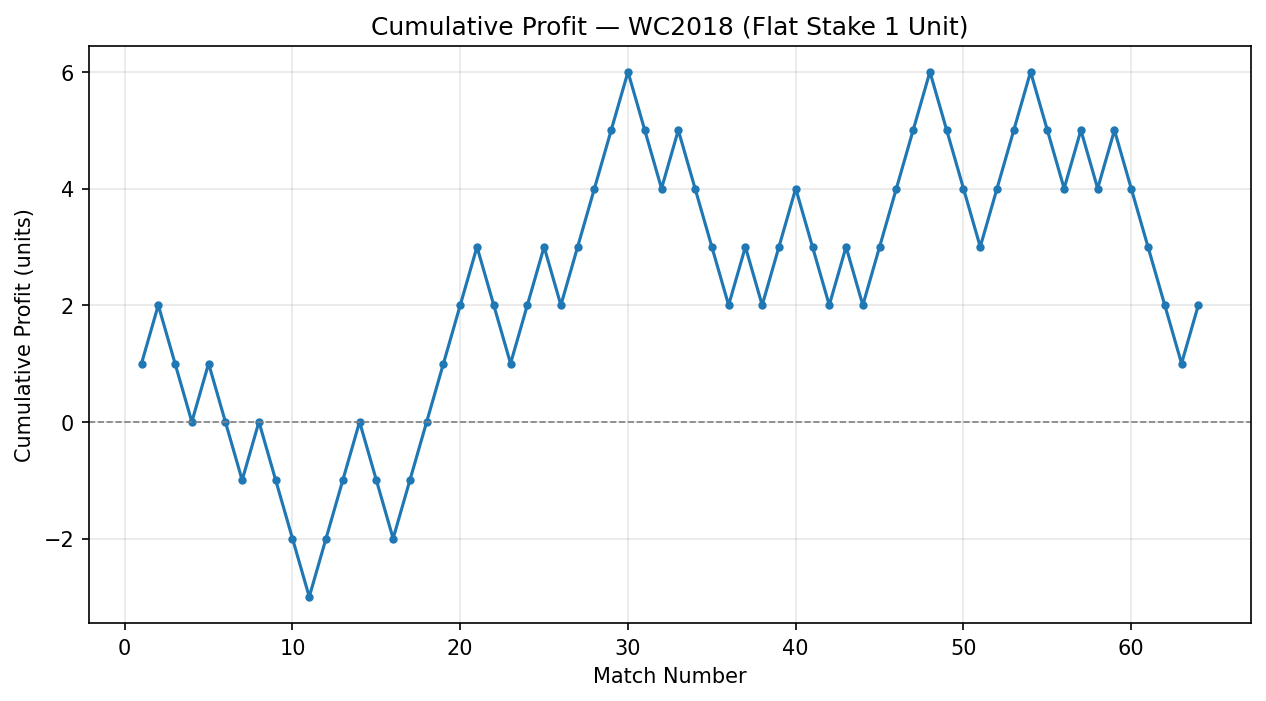
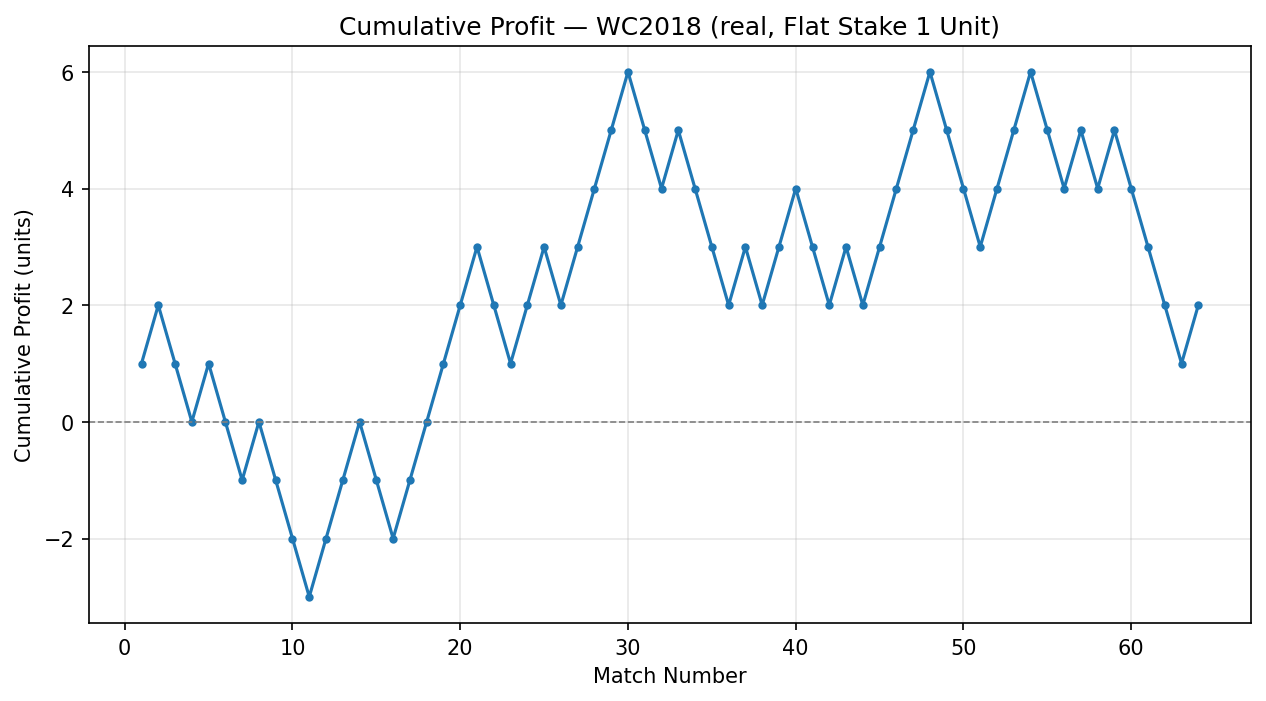
fix: resolve 3 runtime bugs in odds pipeline and dashboard charts
- odds.py import_historical_odds: add comment='#' to pd.read_csv so
  template comment rows are not parsed as data; return empty DataFrame
  with ODDS_COLUMNS schema when file has no data rows
- run_backtest.py _run_mode: pass odds_df directly to compute_edge
  instead of bare pd.DataFrame() — empty-but-schema-correct DataFrame
  prevents KeyError: 'match_date' when stub_2.0 mode passes empty odds
- performance_charts.py: replace invalid width='stretch' with
  use_container_width=True in both st.plotly_chart calls and st.image
  (same fix applied to prediction_card.py in Subphase 7.6)
- Re-ran scripts/run_backtest.py to regenerate backtest CSVs with new
  odds_matched/odds_source columns and updated final_backtest_metrics.json
- 33/33 tests pass

Changed region(s): [[0.2773, 0.0, 0.8009, 0.0599]]

diff --git a/scripts/run_backtest.py b/scripts/run_backtest.py
@@ -139,12 +139,11 @@ def _run_mode(
     wc2022_bet = simulate_betting(wc2022_df, label=label_22, odds_df=odds_df, odds_mode=odds_mode)
     wc2018_bet = simulate_betting(wc2018_df, label=label_18, odds_df=odds_df, odds_mode=odds_mode)
 
-    # We need a canonical odds_df for compute_edge; build from the already-merged cols
-    odds_for_edge = odds_df if odds_df is not None and not odds_df.empty else pd.DataFrame()
+    # Pass odds_df directly to compute_edge; empty DataFrame with ODDS_COLUMNS schema
+    # is fine — all merges produce NaN which fillna(2.0) covers.
+    odds_for_edge = odds_df if odds_df is not None else pd.DataFrame(columns=["match_date", "home_team", "away_team", "home_win_odds", "draw_odds", "away_win_odds"])
     wc2022_edge = compute_edge(wc2022_bet, odds_for_edge)
     wc2018_edge = compute_edge(wc2018_bet, odds_for_edge)
-
-    # Save enriched CSVs (one per mode, do not overwrite the default ones yet)
     if odds_mode == "real":
         wc2022_edge.to_csv(_PROCESSED_DIR / "backtest_wc2022.csv", index=False)
         wc2018_edge.to_csv(_PROCESSED_DIR / "backtest_wc2018.csv", index=False)

diff --git a/app/components/performance_charts.py b/app/components/performance_charts.py
@@ -37,7 +37,7 @@ def render_metrics_bar_chart(metrics_dict):
         yaxis_title="Value",
     )
 
-    st.plotly_chart(fig, width='stretch')
+    st.plotly_chart(fig, use_container_width=True)
 
 
 def render_cumulative_profit_chart(wc2018_df, wc2022_df):
@@ -71,7 +71,7 @@ def render_cumulative_profit_chart(wc2018_df, wc2022_df):
         yaxis_title="Cumulative Profit (units)",
     )
 
-    st.plotly_chart(fig, width='stretch')
+    st.plotly_chart(fig, use_container_width=True)
 
 
 def render_calibration_chart():
@@ -92,7 +92,7 @@ def render_calibration_chart():
             found_any = True
             caption = path.stem  # filename without extension
             with st.expander(caption):
-                st.image(str(path), caption=caption, width='stretch')
+                st.image(str(path), caption=caption, use_container_width=True)
 
     if not found_any:
         st.info("No calibration charts found.")

diff --git a/src/data/odds.py b/src/data/odds.py
@@ -309,7 +309,10 @@ def import_historical_odds(path: Union[str, Path]) -> pd.DataFrame:
     if not path.exists():
         raise FileNotFoundError(f"Historical odds file not found: {path}")
 
-    df = pd.read_csv(path)
+    df = pd.read_csv(path, comment="#")
+    if df.empty:
+        return pd.DataFrame(columns=ODDS_COLUMNS)
+
     name_map = _load_team_name_map()
 
     df["home_team"] = df["home_team"].astype(str).apply(